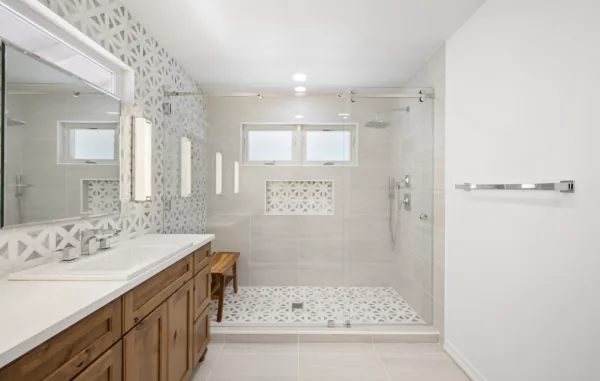
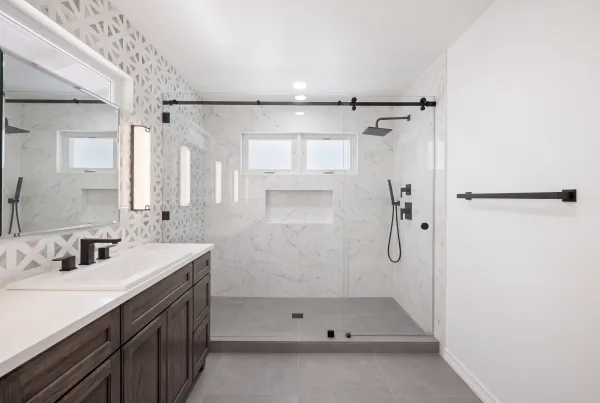
Fix the landing page lightboxes, sliders and alt text
The big one: every gallery image on the two bathroom landing pages had its
lightbox pointed at a bare filename, and the bare files are the untouched
full-resolution originals. The reshoot replaced the 1000 and 2000 wide copies
only, so the thumbnails were new and clicking any of them opened the old
photograph. Fourteen of the sixteen were stale. All now point at the 2000 wide
file, which is also what they should have been doing: those originals run to
2.6 MB each and 20 MB across the set, for a lightbox that is never shown
larger than a screen.

The fifth slider was the old Kingsfield bathroom. It is filed as ba-sample2,
which is why the earlier sweep for stale pairs missed it: the name gives no
hint of the project. Rebuilt from the new photograph. Checked ba-sample1 the
same way against every reshot bathroom and it matches none of them, so it
stands.

Sliders reordered to Archer, Tara, Lupita on both pages, with the rest left
as they fell.

How We Deliver now shows Willowhaven, which is the same bathroom as the image
it replaces, reshot in green marble with copper fittings. Willowhaven then
appeared twice on each page, so the gallery slot moved to photograph 2.

Five alt texts described finishes that no longer exist: a blue Dixie shower
that is now deep red, a marble Dalia shower that is now teal, a white South
Sierra wall that is now charcoal, gold framed glass at Willowhaven that is now
copper, and light oak at Pipilo that is now navy and white.

Changed region(s): [[0.0, 0.0, 0.96, 1.0], [0.45, 0.4619, 0.57, 0.5774]]

diff --git a/shower-conversions.html b/shower-conversions.html
@@ -211,22 +211,22 @@
       <p class="lp-section-lead">Conversions and replacements across San Diego County</p>
       <div class="lp-gallery" id="gallery-track" tabindex="0" role="group" aria-label="Shower and tub project photos, scrollable">
         <img src="bonair1-1000.webp" data-full="bonair1-2000.webp" class="lp-gallery-image" data-lightbox-group="gallery" alt="Shower clad in a single red stone slab, Bonair Way in La Jolla" loading="lazy" />
-        <img src="tara1-1000.webp" data-full="tara1.webp" class="lp-gallery-image" data-lightbox-group="gallery" alt="Walk-in shower, Tara Way in San Marcos" loading="lazy" />
-        <img src="archer1-1000.webp" data-full="archer1.webp" class="lp-gallery-image" data-lightbox-group="gallery" alt="Walk-in shower, Archer Street in Pacific Beach" loading="lazy" />
-        <img src="donahue10-1000.webp" data-full="donahue10.webp" class="lp-gallery-image" data-lightbox-group="gallery" alt="Marble-look shower with sliding glass, Donahue Drive in San Diego" loading="lazy" />
-        <img src="lupita1-1000.webp" data-full="lupita1.webp" class="lp-gallery-image" data-lightbox-group="gallery" alt="Walk-in shower tiled in white with a mosaic niche band, Lupita Court in Carmel Valley" loading="lazy" />
-        <img src="kingsfield7-1000.webp" data-full="kingsfield7.webp" class="lp-gallery-image" data-lightbox-group="gallery" alt="Walk-in shower with a patterned floor and a built-in bench, Kingsfield Court in Carmel Valley" loading="lazy" />
-        <img src="dalia9-1000.webp" data-full="dalia9.webp" class="lp-gallery-image" data-lightbox-group="gallery" alt="Frameless glass shower in marble, Dalia Drive in Rancho Santa Fe" loading="lazy" />
-        <img src="dixie11-1000.webp" data-full="dixie11.webp" class="lp-gallery-image" data-lightbox-group="gallery" alt="Shower tiled in blue with floating shelves, Dixie Drive in Pacific Beach" loading="lazy" />
-        <img src="willowhaven1-1000.webp" data-full="willowhaven1.webp" class="lp-gallery-image" data-lightbox-group="gallery" alt="Marble shower with gold framed glass, Willowhaven Road in Encinitas" loading="lazy" />
-        <img src="ssierra1-1000.webp" data-full="ssierra1.webp" class="lp-gallery-image" data-lightbox-group="gallery" alt="Glass shower with a pebble tile floor, S. Sierra Avenue in Solana Beach" loading="lazy" />
-        <img src="arabiancrest5-1000.webp" data-full="arabiancrest5.webp" class="lp-gallery-image" data-lightbox-group="gallery" alt="Dark tiled shower with frameless glass, Arabian Crest Drive in Carmel Valley" loading="lazy" />
-        <img src="sunsetridge1-1000.webp" data-full="sunsetridge1.webp" class="lp-gallery-image" data-lightbox-group="gallery" alt="Freestanding tub beside a large glass shower, Sunset Ridge Drive in San Diego" loading="lazy" />
-        <img src="honors1-1000.webp" data-full="honors1.webp" class="lp-gallery-image" data-lightbox-group="gallery" alt="Freestanding tub and a glass shower, Honors Drive in San Diego" loading="lazy" />
-        <img src="brava9-1000.webp" data-full="brava9.webp" class="lp-gallery-image" data-lightbox-group="gallery" alt="Tub with a textured tile surround and a glass panel, Brava Street in Carlsbad" loading="lazy" />
-        <img src="tynebourne1-1000.webp" data-full="tynebourne1.webp" class="lp-gallery-image" data-lightbox-group="gallery" alt="Glass shower beside a tub, Tynebourne Circle in Carmel Valley" loading="lazy" />
-        <img src="avalon1-1000.webp" data-full="avalon1.webp" class="lp-gallery-image" data-lightbox-group="gallery" alt="Shower with a pebble floor behind a floating vanity, Avalon Avenue in San Diego" loading="lazy" />
-        <img src="lark1-1000.webp" data-full="lark1.webp" class="lp-gallery-image" data-lightbox-group="gallery" alt="Tub and shower with a tiled surround, Lark Street in San Diego" loading="lazy" />
+        <img src="tara1-1000.webp" data-full="tara1-2000.webp" class="lp-gallery-image" data-lightbox-group="gallery" alt="Walk-in shower, Tara Way in San Marcos" loading="lazy" />
+        <img src="archer1-1000.webp" data-full="archer1-2000.webp" class="lp-gallery-image" data-lightbox-group="gallery" alt="Walk-in shower, Archer Street in Pacific Beach" loading="lazy" />
+        <img src="donahue10-1000.webp" data-full="donahue10-2000.webp" class="lp-gallery-image" data-lightbox-group="gallery" alt="Marble-look shower with sliding glass, Donahue Drive in San Diego" loading="lazy" />
+        <img src="lupita1-1000.webp" data-full="lupita1-2000.webp" class="lp-gallery-image" data-lightbox-group="gallery" alt="Walk-in shower tiled in white with a mosaic niche band, Lupita Court in Carmel Valley" loading="lazy" />
+        <img src="kingsfield7-1000.webp" data-full="kingsfield7-2000.webp" class="lp-gallery-image" data-lightbox-group="gallery" alt="Walk-in shower with a patterned floor and a built-in bench, Kingsfield Court in Carmel Valley" loading="lazy" />
+        <img src="dalia9-1000.webp" data-full="dalia9-2000.webp" class="lp-gallery-image" data-lightbox-group="gallery" alt="Frameless glass shower tiled in teal, Dalia Drive in Rancho Santa Fe" loading="lazy" />
+        <img src="dixie11-1000.webp" data-full="dixie11-2000.webp" class="lp-gallery-image" data-lightbox-group="gallery" alt="Tub and shower tiled in deep red with floating shelves, Dixie Drive in Pacific Beach" loading="lazy" />
+        <img src="willowhaven2-1000.webp" data-full="willowhaven2-2000.webp" class="lp-gallery-image" data-lightbox-group="gallery" alt="Vanity with copper fittings, Willowhaven Road in Encinitas" loading="lazy" />
+        <img src="ssierra1-1000.webp" data-full="ssierra1-2000.webp" class="lp-gallery-image" data-lightbox-group="gallery" alt="Glass shower with a pebble tile floor, S. Sierra Avenue in Solana Beach" loading="lazy" />
+        <img src="arabiancrest5-1000.webp" data-full="arabiancrest5-2000.webp" class="lp-gallery-image" data-lightbox-group="gallery" alt="Dark tiled shower with frameless glass, Arabian Crest Drive in Carmel Valley" loading="lazy" />
+        <img src="sunsetridge1-1000.webp" data-full="sunsetridge1-2000.webp" class="lp-gallery-image" data-lightbox-group="gallery" alt="Freestanding tub beside a large glass shower, Sunset Ridge Drive in San Diego" loading="lazy" />
+        <img src="honors1-1000.webp" data-full="honors1-2000.webp" class="lp-gallery-image" data-lightbox-group="gallery" alt="Freestanding tub and a glass shower, Honors Drive in San Diego" loading="lazy" />
+        <img src="brava9-1000.webp" data-full="brava9-2000.webp" class="lp-gallery-image" data-lightbox-group="gallery" alt="Tub with a textured tile surround and a glass panel, Brava Street in Carlsbad" loading="lazy" />
+        <img src="tynebourne1-1000.webp" data-full="tynebourne1-2000.webp" class="lp-gallery-image" data-lightbox-group="gallery" alt="Glass shower beside a tub, Tynebourne Circle in Carmel Valley" loading="lazy" />
+        <img src="avalon1-1000.webp" data-full="avalon1-2000.webp" class="lp-gallery-image" data-lightbox-group="gallery" alt="Shower with a pebble floor behind a floating vanity, Avalon Avenue in San Diego" loading="lazy" />
+        <img src="lark1-1000.webp" data-full="lark1-2000.webp" class="lp-gallery-image" data-lightbox-group="gallery" alt="Tub and shower with a tiled surround, Lark Street in San Diego" loading="lazy" />
       </div>
       <div class="lp-gallery-nav">
         <button type="button" class="lp-gallery-arrow" id="gallery-prev" aria-label="Previous photos" aria-controls="gallery-track">&#8592;</button>
@@ -248,6 +248,23 @@
         <div class="lp-ba-item is-square">
           <div class="lp-ba-side">
             <span class="lp-ba-label">Before</span>
+            <img class="lp-ba-img" data-lightbox-group="beforeafter" data-full="ba-archer-before.webp" src="ba-archer-before-600.webp"
+                 srcset="ba-archer-before-600.webp 600w, ba-archer-before.webp 1400w"
+                 sizes="(max-width: 700px) 92vw, 45vw"
+                 alt="Pacific Beach bathroom before the work, stripped back to the framing" loading="lazy" />
+          </div>
+          <span class="lp-ba-turn" aria-hidden="true"><svg viewBox="0 0 72 30" width="72" height="30" fill="none"><path d="M3 21 C 17 5, 42 2, 60 12" fill="none" stroke="currentColor" stroke-width="2.4" stroke-linecap="round"/><path d="M64.4 14.4 L56.1 14.5 L60.1 7.3 Z" fill="currentColor"/></svg></span>
+          <div class="lp-ba-side">
+            <span class="lp-ba-label">After</span>
+            <img class="lp-ba-img" data-lightbox-group="beforeafter" data-full="ba-archer-after.webp" src="ba-archer-after-600.webp"
+                 srcset="ba-archer-after-600.webp 600w, ba-archer-after.webp 1400w"
+                 sizes="(max-width: 700px) 92vw, 45vw"
+                 alt="Pacific Beach bathroom after the work, a tub against a dark marble wall" loading="lazy" />
+          </div>
+        </div>
+        <div class="lp-ba-item is-square">
+          <div class="lp-ba-side">
+            <span class="lp-ba-label">Before</span>
             <img class="lp-ba-img" data-lightbox-group="beforeafter" data-full="ba-tara-before.webp" src="ba-tara-before-600.webp"
                  srcset="ba-tara-before-600.webp 600w, ba-tara-before.webp 1400w"
                  sizes="(max-width: 700px) 92vw, 45vw"
@@ -265,23 +282,6 @@
         <div class="lp-ba-item is-square">
           <div class="lp-ba-side">
             <span class="lp-ba-label">Before</span>
-            <img class="lp-ba-img" data-lightbox-group="beforeafter" data-full="ba-sample2-before.webp" src="ba-sample2-before-600.webp"
-                 srcset="ba-sample2-before-600.webp 600w, ba-sample2-before.webp 1400w"
-                 sizes="(max-width: 700px) 92vw, 45vw"
-                 alt="San Diego bathroom before the conversion, a drop-in tub behind glass doors" loading="lazy" />
-          </div>
-          <span class="lp-ba-turn" aria-hidden="true"><svg viewBox="0 0 72 30" width="72" height="30" fill="none"><path d="M3 21 C 17 5, 42 2, 60 12" fill="none" stroke="currentColor" stroke-width="2.4" stroke-linecap="round"/><path d="M64.4 14.4 L56.1 14.5 L60.1 7.3 Z" fill="currentColor"/></svg></span>
-          <div class="lp-ba-side">
-            <span class="lp-ba-label">After</span>
-            <img class="lp-ba-img" data-lightbox-group="beforeafter" data-full="ba-sample2-after.webp" src="ba-sample2-after-600.webp"
-                 srcset="ba-sample2-after-600.webp 600w, ba-sample2-after.webp 1400w"
-                 sizes="(max-width: 700px) 92vw, 45vw"
-                 alt="San Diego bathroom after the conversion, an open tiled shower" loading="lazy" />
-          </div>
-        </div>
-        <div class="lp-ba-item is-square">
-          <div class="lp-ba-side">
-            <span class="lp-ba-label">Before</span>
             <img class="lp-ba-img" data-lightbox-group="beforeafter" data-full="ba-lupita-before.webp" src="ba-lupita-before-600.webp"
                  srcset="ba-lupita-before-600.webp 600w, ba-lupita-before.webp 1400w"
                  sizes="(max-width: 700px) 92vw, 45vw"
@@ -294,6 +294,23 @@
                  srcset="ba-lupita-after-600.webp 600w, ba-lupita-after.webp 1400w"
                  sizes="(max-width: 700px) 92vw, 45vw"
                  alt="Carmel Valley shower after the remodel, tiled with a mosaic niche band" loading="lazy" />
+          </div>
+        </div>
+        <div class="lp-ba-item is-square">
+          <div class="lp-ba-side">
+            <span class="lp-ba-label">Before</span>
+            <img class="lp-ba-img" data-lightbox-group="beforeafter" data-full="ba-sample2-before.webp" src="ba-sample2-before-600.webp"
+                 srcset="ba-sample2-before-600.webp 600w, ba-sample2-before.webp 1400w"
+                 sizes="(max-width: 700px) 92vw, 45vw"
+                 alt="San Diego bathroom before the conversion, a drop-in tub behind glass doors" loading="lazy" />
+          </div>
+          <span class="lp-ba-turn" aria-hidden="true"><svg viewBox="0 0 72 30" width="72" height="30" fill="none"><path d="M3 21 C 17 5, 42 2, 60 12" fill="none" stroke="currentColor" stroke-width="2.4" stroke-linecap="round"/><path d="M64.4 14.4 L56.1 14.5 L60.1 7.3 Z" fill="currentColor"/></svg></span>
+          <div class="lp-ba-side">
+            <span class="lp-ba-label">After</span>
+            <img class="lp-ba-img" data-lightbox-group="beforeafter" data-full="ba-sample2-after.webp" src="ba-sample2-after-600.webp"
+                 srcset="ba-sample2-after-600.webp 600w, ba-sample2-after.webp 1400w"
+                 sizes="(max-width: 700px) 92vw, 45vw"
+                 alt="San Diego bathroom after the conversion, an open tiled shower" loading="lazy" />
           </div>
         </div>
         <div class="lp-ba-item is-square">
@@ -347,23 +364,6 @@
                  alt="Encinitas bathroom after the work, a freestanding tub against marble walls" loading="lazy" />
           </div>
         </div>
-        <div class="lp-ba-item is-square">
-          <div class="lp-ba-side">
-            <span class="lp-ba-label">Before</span>
-            <img class="lp-ba-img" data-lightbox-group="beforeafter" data-full="ba-archer-before.webp" src="ba-archer-before-600.webp"
-                 srcset="ba-archer-before-600.webp 600w, ba-archer-before.webp 1400w"
-                 sizes="(max-width: 700px) 92vw, 45vw"
-                 alt="Pacific Beach bathroom before the work, stripped back to the framing" loading="lazy" />
-          </div>
-          <span class="lp-ba-turn" aria-hidden="true"><svg viewBox="0 0 72 30" width="72" height="30" fill="none"><path d="M3 21 C 17 5, 42 2, 60 12" fill="none" stroke="currentColor" stroke-width="2.4" stroke-linecap="round"/><path d="M64.4 14.4 L56.1 14.5 L60.1 7.3 Z" fill="currentColor"/></svg></span>
-          <div class="lp-ba-side">
-            <span class="lp-ba-label">After</span>
-            <img class="lp-ba-img" data-lightbox-group="beforeafter" data-full="ba-archer-after.webp" src="ba-archer-after-600.webp"
-                 srcset="ba-archer-after-600.webp 600w, ba-archer-after.webp 1400w"
-                 sizes="(max-width: 700px) 92vw, 45vw"
-                 alt="Pacific Beach bathroom after the work, a tub against a dark marble wall" loading="lazy" />
-          </div>
-        </div>
       </div>
       <div class="lp-ba-nav">
         <button type="button" class="lp-ba-arrow" id="ba-prev" aria-label="Previous transformation" aria-controls="ba-track">&#8592;</button>
@@ -415,11 +415,11 @@
       <h2>How We Build Showers That Stay Right</h2>
       <div class="lp-deliver">
         <div class="lp-deliver-photo">
-          <img src="bathdeliver-1000.webp"
-               srcset="bathdeliver-1000.webp 1000w, bathdeliver.webp 2000w"
+          <img src="willowhaven1-1000.webp"
+               srcset="willowhaven1-1000.webp 1000w, willowhaven1-2000.webp 2000w"
                sizes="(max-width: 860px) 92vw, 42vw"
-               alt="Completed bathroom with a marble-tiled walk-in shower and brushed gold fittings"
-               width="2000" height="1333" loading="lazy" />
+               alt="Completed bathroom with a green marble walk-in shower and copper fittings"
+               width="2000" height="1342" loading="lazy" />
         </div>
         <ul class="lp-deliver-list">
           <li>
@@ -542,7 +542,7 @@
         </div>
         <div class="lp-step">
           <div class="lp-step-photo">
-            <img src="ssierra1-1000.webp" alt="Glass shower with a pebble tile floor beside a white tiled wall" width="1000" height="667" loading="lazy" />
+            <img src="ssierra1-1000.webp" alt="Frameless corner shower tiled in charcoal" width="1000" height="667" loading="lazy" />
             <span class="lp-step-num">4</span>
           </div>
           <h3>We Build It</h3>

diff --git a/bathroom-remodel-a.html b/bathroom-remodel-a.html
@@ -194,23 +194,23 @@
       <h2>Beautiful &amp; Memorable Bathroom Remodels</h2>
       <p class="lp-section-lead">San Diego Bathrooms We've Designed &amp; Built</p>
       <div class="lp-gallery" id="gallery-track" tabindex="0" role="group" aria-label="Bathroom project photos, scrollable">
-        <img src="tara1-1000.webp" data-full="tara1.webp" class="lp-gallery-image" data-lightbox-group="gallery" alt="Tara Way bathroom remodel in San Marcos" loading="lazy" />
-        <img src="archer1-1000.webp" data-full="archer1.webp" class="lp-gallery-image" data-lightbox-group="gallery" alt="Archer Street bathroom remodel in Pacific Beach" loading="lazy" />
-        <img src="lupita1-1000.webp" data-full="lupita1.webp" class="lp-gallery-image" data-lightbox-group="gallery" alt="Lupita Court bathroom remodel in Carmel Valley" loading="lazy" />
-        <img src="avalon1-1000.webp" data-full="avalon1.webp" class="lp-gallery-image" data-lightbox-group="gallery" alt="Avalon Avenue bathroom remodel in San Diego" loading="lazy" />
-        <img src="sunsetridge1-1000.webp" data-full="sunsetridge1.webp" class="lp-gallery-image" data-lightbox-group="gallery" alt="Sunset Ridge Drive bathroom remodel in San Diego" loading="lazy" />
+        <img src="tara1-1000.webp" data-full="tara1-2000.webp" class="lp-gallery-image" data-lightbox-group="gallery" alt="Tara Way bathroom remodel in San Marcos" loading="lazy" />
+        <img src="archer1-1000.webp" data-full="archer1-2000.webp" class="lp-gallery-image" data-lightbox-group="gallery" alt="Archer Street bathroom remodel in Pacific Beach" loading="lazy" />
+        <img src="lupita1-1000.webp" data-full="lupita1-2000.webp" class="lp-gallery-image" data-lightbox-group="gallery" alt="Lupita Court bathroom remodel in Carmel Valley" loading="lazy" />
+        <img src="avalon1-1000.webp" data-full="avalon1-2000.webp" class="lp-gallery-image" data-lightbox-group="gallery" alt="Avalon Avenue bathroom remodel in San Diego" loading="lazy" />
+        <img src="sunsetridge1-1000.webp" data-full="sunsetridge1-2000.webp" class="lp-gallery-image" data-lightbox-group="gallery" alt="Sunset Ridge Drive bathroom remodel in San Diego" loading="lazy" />
         <img src="bonair1-1000.webp" data-full="bonair1-2000.webp" class="lp-gallery-image" data-lightbox-group="gallery" alt="La Jolla bathroom with a freestanding tub and a red stone slab shower" loading="lazy" />
-        <img src="lark1-1000.webp" data-full="lark1.webp" class="lp-gallery-image" data-lightbox-group="gallery" alt="Lark Street bathroom remodel in San Diego" loading="lazy" />
-        <img src="ssierra1-1000.webp" data-full="ssierra1.webp" class="lp-gallery-image" data-lightbox-group="gallery" alt="S. Sierra Avenue bathroom remodel in Solana Beach" loading="lazy" />
-        <img src="tynebourne1-1000.webp" data-full="tynebourne1.webp" class="lp-gallery-image" data-lightbox-group="gallery" alt="Tynebourne Circle bathroom remodel in Carmel Valley" loading="lazy" />
-        <img src="willowhaven1-1000.webp" data-full="willowhaven1.webp" class="lp-gallery-image" data-lightbox-group="gallery" alt="Willowhaven Road bathroom remodel in Encinitas" loading="lazy" />
-        <img src="honors1-1000.webp" data-full="honors1.webp" class="lp-gallery-image" data-lightbox-group="gallery" alt="Honors Drive bathroom remodel in San Diego" loading="lazy" />
-        <img src="dalia9-1000.webp" data-full="dalia9.webp" class="lp-gallery-image" data-lightbox-group="gallery" alt="Dalia Drive bathroom remodel in Rancho Santa Fe" loading="lazy" />
-        <img src="arabiancrest5-1000.webp" data-full="arabiancrest5.webp" class="lp-gallery-image" data-lightbox-group="gallery" alt="Arabian Crest Drive bathroom remodel in Carmel Valley" loading="lazy" />
-        <img src="brava9-1000.webp" data-full="brava9.webp" class="lp-gallery-image" data-lightbox-group="gallery" alt="Brava Street bathroom remodel in Carlsbad" loading="lazy" />
-        <img src="dixie11-1000.webp" data-full="dixie11.webp" class="lp-gallery-image" data-lightbox-group="gallery" alt="Dixie Drive bathroom remodel in Pacific Beach" loading="lazy" />
-        <img src="kingsfield7-1000.webp" data-full="kingsfield7.webp" class="lp-gallery-image" data-lightbox-group="gallery" alt="Kingsfield Court bathroom remodel in Carmel Valley" loading="lazy" />
-        <img src="donahue10-1000.webp" data-full="donahue10.webp" class="lp-gallery-image" data-lightbox-group="gallery" alt="Donahue Drive bathroom remodel in San Diego" loading="lazy" />
+        <img src="lark1-1000.webp" data-full="lark1-2000.webp" class="lp-gallery-image" data-lightbox-group="gallery" alt="Lark Street bathroom remodel in San Diego" loading="lazy" />
+        <img src="ssierra1-1000.webp" data-full="ssierra1-2000.webp" class="lp-gallery-image" data-lightbox-group="gallery" alt="S. Sierra Avenue bathroom remodel in Solana Beach" loading="lazy" />
+        <img src="tynebourne1-1000.webp" data-full="tynebourne1-2000.webp" class="lp-gallery-image" data-lightbox-group="gallery" alt="Tynebourne Circle bathroom remodel in Carmel Valley" loading="lazy" />
+        <img src="willowhaven2-1000.webp" data-full="willowhaven2-2000.webp" class="lp-gallery-image" data-lightbox-group="gallery" alt="Willowhaven Road bathroom remodel in Encinitas" loading="lazy" />
+        <img src="honors1-1000.webp" data-full="honors1-2000.webp" class="lp-gallery-image" data-lightbox-group="gallery" alt="Honors Drive bathroom remodel in San Diego" loading="lazy" />
+        <img src="dalia9-1000.webp" data-full="dalia9-2000.webp" class="lp-gallery-image" data-lightbox-group="gallery" alt="Dalia Drive bathroom remodel in Rancho Santa Fe" loading="lazy" />
+        <img src="arabiancrest5-1000.webp" data-full="arabiancrest5-2000.webp" class="lp-gallery-image" data-lightbox-group="gallery" alt="Arabian Crest Drive bathroom remodel in Carmel Valley" loading="lazy" />
+        <img src="brava9-1000.webp" data-full="brava9-2000.webp" class="lp-gallery-image" data-lightbox-group="gallery" alt="Brava Street bathroom remodel in Carlsbad" loading="lazy" />
+        <img src="dixie11-1000.webp" data-full="dixie11-2000.webp" class="lp-gallery-image" data-lightbox-group="gallery" alt="Dixie Drive bathroom remodel in Pacific Beach" loading="lazy" />
+        <img src="kingsfield7-1000.webp" data-full="kingsfield7-2000.webp" class="lp-gallery-image" data-lightbox-group="gallery" alt="Kingsfield Court bathroom remodel in Carmel Valley" loading="lazy" />
+        <img src="donahue10-1000.webp" data-full="donahue10-2000.webp" class="lp-gallery-image" data-lightbox-group="gallery" alt="Donahue Drive bathroom remodel in San Diego" loading="lazy" />
       </div>
       <div class="lp-gallery-nav">
         <button type="button" class="lp-gallery-arrow" id="gallery-prev" aria-label="Previous photos" aria-controls="gallery-track">&#8592;</button>
@@ -228,23 +228,6 @@
     <div class="lp-container">
       <h2>See Our Client's Home Transformations</h2>
       <div class="lp-ba" id="ba-track" tabindex="0" role="group" aria-label="Before and after transformations, scrollable">
-        <div class="lp-ba-item is-square">
-          <div class="lp-ba-side">
-            <span class="lp-ba-label">Before</span>
-            <img class="lp-ba-img" data-lightbox-group="beforeafter" data-full="ba-lupita-before.webp" src="ba-lupita-before-600.webp"
-                 srcset="ba-lupita-before-600.webp 600w, ba-lupita-before.webp 1400w"
-                 sizes="(max-width: 700px) 92vw, 45vw"
-                 alt="Carmel Valley bathroom before the remodel" loading="lazy" />
-          </div>
-          <span class="lp-ba-turn" aria-hidden="true"><svg viewBox="0 0 72 30" width="72" height="30" fill="none"><path d="M3 21 C 17 5, 42 2, 60 12" fill="none" stroke="currentColor" stroke-width="2.4" stroke-linecap="round"/><path d="M64.4 14.4 L56.1 14.5 L60.1 7.3 Z" fill="currentColor"/></svg></span>
-          <div class="lp-ba-side">
-            <span class="lp-ba-label">After</span>
-            <img class="lp-ba-img" data-lightbox-group="beforeafter" data-full="ba-lupita-after.webp" src="ba-lupita-after-600.webp"
-                 srcset="ba-lupita-after-600.webp 600w, ba-lupita-after.webp 1400w"
-                 sizes="(max-width: 700px) 92vw, 45vw"
-                 alt="Carmel Valley bathroom after the remodel" loading="lazy" />
-          </div>
-        </div>
         <div class="lp-ba-item is-square">
           <div class="lp-ba-side">
             <span class="lp-ba-label">Before</span>
@@ -277,6 +260,23 @@
                  srcset="ba-tara-after-600.webp 600w, ba-tara-after.webp 1400w"
                  sizes="(max-width: 700px) 92vw, 45vw"
                  alt="San Marcos bathroom after the remodel" loading="lazy" />
+          </div>
+        </div>
+        <div class="lp-ba-item is-square">
+          <div class="lp-ba-side">
+            <span class="lp-ba-label">Before</span>
+            <img class="lp-ba-img" data-lightbox-group="beforeafter" data-full="ba-lupita-before.webp" src="ba-lupita-before-600.webp"
+                 srcset="ba-lupita-before-600.webp 600w, ba-lupita-before.webp 1400w"
+                 sizes="(max-width: 700px) 92vw, 45vw"
+                 alt="Carmel Valley bathroom before the remodel" loading="lazy" />
+          </div>
+          <span class="lp-ba-turn" aria-hidden="true"><svg viewBox="0 0 72 30" width="72" height="30" fill="none"><path d="M3 21 C 17 5, 42 2, 60 12" fill="none" stroke="currentColor" stroke-width="2.4" stroke-linecap="round"/><path d="M64.4 14.4 L56.1 14.5 L60.1 7.3 Z" fill="currentColor"/></svg></span>
+          <div class="lp-ba-side">
+            <span class="lp-ba-label">After</span>
+            <img class="lp-ba-img" data-lightbox-group="beforeafter" data-full="ba-lupita-after.webp" src="ba-lupita-after-600.webp"
+                 srcset="ba-lupita-after-600.webp 600w, ba-lupita-after.webp 1400w"
+                 sizes="(max-width: 700px) 92vw, 45vw"
+                 alt="Carmel Valley bathroom after the remodel" loading="lazy" />
           </div>
         </div>
         <div class="lp-ba-item is-square">
@@ -398,11 +398,11 @@
       <h2>How We Deliver An Incredible San Diego Remodeling Experience</h2>
       <div class="lp-deliver">
         <div class="lp-deliver-photo">
-          <img src="bathdeliver-1000.webp"
-               srcset="bathdeliver-1000.webp 1000w, bathdeliver.webp 2000w"
+          <img src="willowhaven1-1000.webp"
+               srcset="willowhaven1-1000.webp 1000w, willowhaven1-2000.webp 2000w"
                sizes="(max-width: 860px) 92vw, 42vw"
-               alt="Completed bathroom with a marble-tiled walk-in shower and brushed gold fittings"
-               width="2000" height="1333" loading="lazy" />
+               alt="Completed bathroom with a green marble walk-in shower and copper fittings"
+               width="2000" height="1342" loading="lazy" />
         </div>
         <ul class="lp-deliver-list">
           <li>
@@ -525,7 +525,7 @@
         </div>
         <div class="lp-step">
           <div class="lp-step-photo">
-            <img src="ssierra1-1000.webp" alt="Glass shower with a pebble tile floor beside a white tiled wall" width="1000" height="667" loading="lazy" />
+            <img src="ssierra1-1000.webp" alt="Frameless corner shower tiled in charcoal" width="1000" height="667" loading="lazy" />
             <span class="lp-step-num">4</span>
           </div>
           <h3>We Build It</h3>

diff --git a/index.html b/index.html
@@ -333,7 +333,7 @@
         <div class="gb-steps">
           <div class="gb-step">
             <div class="gb-step-photo">
-              <img src="pipilo1-1000.webp" alt="Finished kitchen with a marble waterfall island, light oak cabinetry and gold pendant lights" width="1000" height="667" loading="lazy" />
+              <img src="pipilo1-1000.webp" alt="Finished kitchen with a marble waterfall island, navy and white cabinetry and gold pendant lights" width="1000" height="667" loading="lazy" />
               <span class="gb-step-num">1</span>
             </div>
             <h3>Free Consultation</h3>

diff --git a/custom-cabinets.html b/custom-cabinets.html
@@ -502,7 +502,7 @@
       <div class="lp-steps">
         <div class="lp-step">
           <div class="lp-step-photo">
-            <img src="pipilo1-1000.webp" alt="Finished kitchen with a marble waterfall island, light oak cabinetry and gold pendant lights" width="1000" height="667" loading="lazy" />
+            <img src="pipilo1-1000.webp" alt="Finished kitchen with a marble waterfall island, navy and white cabinetry and gold pendant lights" width="1000" height="667" loading="lazy" />
             <span class="lp-step-num">1</span>
           </div>
           <h3>Free Consultation</h3>

diff --git a/kitchen-remodel-a.html b/kitchen-remodel-a.html
@@ -486,7 +486,7 @@
       <div class="lp-steps">
         <div class="lp-step">
           <div class="lp-step-photo">
-            <img src="pipilo1-1000.webp" alt="Finished kitchen with a marble waterfall island, light oak cabinetry and gold pendant lights" width="1000" height="667" loading="lazy" />
+            <img src="pipilo1-1000.webp" alt="Finished kitchen with a marble waterfall island, navy and white cabinetry and gold pendant lights" width="1000" height="667" loading="lazy" />
             <span class="lp-step-num">1</span>
           </div>
           <h3>Free Consultation</h3>
